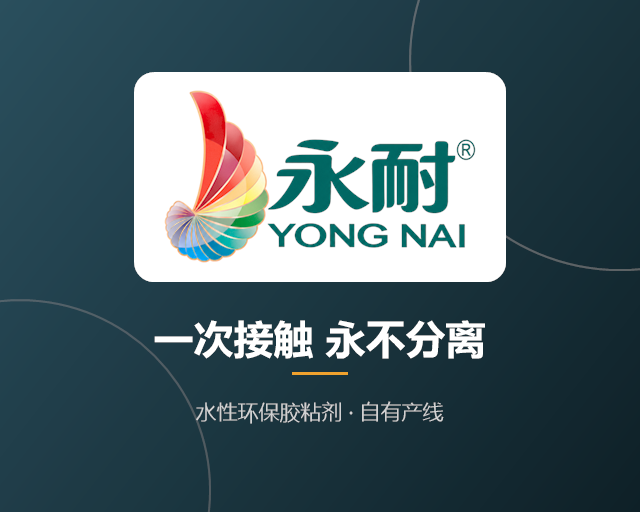
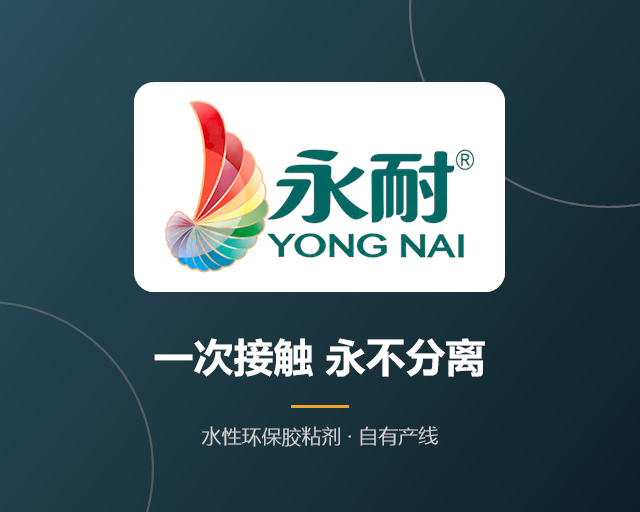
fix(share): 朋友圈改用 1:1 封面；showShareMenu 的 menus 默认值坑加注释与 fail 兜底

diff --git a/miniprogram/utils/util.ts b/miniprogram/utils/util.ts
@@ -62,11 +62,20 @@ export const previewImages = (urls: string[], current?: string) => {
 /** 校验中国大陆手机号 */
 export const isPhone = (value: string) => /^1[3-9]\d{9}$/.test(value)
 
-/** 打开右上角菜单里的「转发给好友」与「分享到朋友圈」 */
+/**
+ * 打开右上角菜单里的「转发给好友」与「分享到朋友圈」。
+ *
+ * 坑一：menus 的默认值是 ['shareAppMessage']，不显式传 shareTimeline 的话
+ *      朋友圈入口不会出现——只定义 onShareTimeline 回调并不够。
+ * 坑二：基础库 < 2.11.3 不支持 menus 参数，调用会失败；失败时保持平台默认即可。
+ */
 export const enableShare = () => {
   wx.showShareMenu({
     withShareTicket: true,
     menus: ['shareAppMessage', 'shareTimeline'],
+    fail: () => {
+      // 低版本基础库不支持 menus，忽略即可
+    },
   } as WechatMiniprogram.ShowShareMenuOption)
 }
 

diff --git a/miniprogram/pages/detail/detail.ts b/miniprogram/pages/detail/detail.ts
@@ -1,5 +1,5 @@
 import { findProduct, PRODUCTS, Product } from '../../data/products'
-import { SHARE_COVER } from '../../config'
+import { SHARE_COVER, SHARE_TIMELINE_COVER } from '../../config'
 import { callPhone, enableShare, goTab } from '../../utils/util'
 
 const PHONE = '13723757790'
@@ -108,7 +108,7 @@ Page({
     return {
       title: product ? `永耐 ${product.model} ${product.name}｜${product.usage}` : '永耐胶水',
       query: `model=${product ? product.model : ''}`,
-      imageUrl: SHARE_COVER,
+      imageUrl: SHARE_TIMELINE_COVER,
     }
   },
 })

diff --git a/miniprogram/pages/sample/sample.ts b/miniprogram/pages/sample/sample.ts
@@ -1,4 +1,4 @@
-import { API_BASE, HAS_BACKEND, SAMPLE_PATH, SHARE_COVER } from '../../config'
+import { API_BASE, HAS_BACKEND, SAMPLE_PATH, SHARE_COVER, SHARE_TIMELINE_COVER } from '../../config'
 import { findProduct } from '../../data/products'
 import { callPhone, enableShare, goTab, isPhone, toast } from '../../utils/util'
 
@@ -183,7 +183,7 @@ Page({
     return {
       title: '永耐胶水 · 寄样与试胶不收费，样块确认后再谈批量',
       query: '',
-      imageUrl: SHARE_COVER,
+      imageUrl: SHARE_TIMELINE_COVER,
     }
   },
 })

diff --git a/miniprogram/pages/home/home.ts b/miniprogram/pages/home/home.ts
@@ -6,7 +6,7 @@ import {
   SAMPLE_STEPS,
   STATS,
 } from '../../data/company'
-import { SHARE_COVER } from '../../config'
+import { SHARE_COVER, SHARE_TIMELINE_COVER } from '../../config'
 import { callPhone, enableShare, goTab } from '../../utils/util'
 
 const FEATURED = ['SL-113', 'SL-101', 'SL-286', 'SL-128']
@@ -129,7 +129,7 @@ Page({
     return {
       title: '永耐胶水 · 水性环保胶粘剂，九大系列 17 个在售型号',
       query: '',
-      imageUrl: SHARE_COVER,
+      imageUrl: SHARE_TIMELINE_COVER,
     }
   },
 })

diff --git a/miniprogram/pages/about/about.ts b/miniprogram/pages/about/about.ts
@@ -15,7 +15,7 @@ import {
   STATS,
   VOC_POINTS,
 } from '../../data/company'
-import { SHARE_COVER } from '../../config'
+import { SHARE_COVER, SHARE_TIMELINE_COVER } from '../../config'
 import { enableShare, goTab, previewImages } from '../../utils/util'
 
 Page({
@@ -84,7 +84,7 @@ Page({
     return {
       title: '永耐胶水 · 4,000 ㎡ 自有厂房，年产一万余吨，七项发明专利',
       query: '',
-      imageUrl: SHARE_COVER,
+      imageUrl: SHARE_TIMELINE_COVER,
     }
   },
 })

diff --git a/miniprogram/pages/products/products.ts b/miniprogram/pages/products/products.ts
@@ -1,5 +1,5 @@
 import { PRODUCTS, SERIES, Product } from '../../data/products'
-import { SHARE_COVER } from '../../config'
+import { SHARE_COVER, SHARE_TIMELINE_COVER } from '../../config'
 import { enableShare, goTab } from '../../utils/util'
 
 interface Chip {
@@ -131,7 +131,7 @@ Page({
     return {
       title: '永耐胶水 · 九大系列 17 个在售型号，按木种与工序选型',
       query: '',
-      imageUrl: SHARE_COVER,
+      imageUrl: SHARE_TIMELINE_COVER,
     }
   },
 })

diff --git a/miniprogram/pages/contact/contact.ts b/miniprogram/pages/contact/contact.ts
@@ -1,5 +1,5 @@
 import { BRAND, CONTACT, QUOTE_NOTE } from '../../data/company'
-import { SHARE_COVER } from '../../config'
+import { SHARE_COVER, SHARE_TIMELINE_COVER } from '../../config'
 import { callPhone, copyText, enableShare, toast } from '../../utils/util'
 
 Page({
@@ -90,7 +90,7 @@ Page({
     return {
       title: '永耐胶水 · 电话 / 微信 137 2375 7790，东莞大岭山',
       query: '',
-      imageUrl: SHARE_COVER,
+      imageUrl: SHARE_TIMELINE_COVER,
     }
   },
 })

diff --git a/miniprogram/config.ts b/miniprogram/config.ts
@@ -12,5 +12,8 @@ export const SAMPLE_PATH = '/api/sample'
 /** 是否已配置后台 */
 export const HAS_BACKEND = API_BASE.length > 0
 
-/** 转发 / 朋友圈统一使用的 5:4 分享封面 */
+/** 转发给好友的分享封面：微信卡片按 5:4 展示 */
 export const SHARE_COVER = '/assets/share/share-cover.png'
+
+/** 分享到朋友圈的封面：朋友圈按 1:1 展示，用 5:4 会被裁掉上下 */
+export const SHARE_TIMELINE_COVER = '/assets/share/share-timeline.png'

diff --git a/miniprogram/pages/selector/selector.ts b/miniprogram/pages/selector/selector.ts
@@ -8,7 +8,7 @@ import {
   Scenario,
   findProduct,
 } from '../../data/products'
-import { SHARE_COVER } from '../../config'
+import { SHARE_COVER, SHARE_TIMELINE_COVER } from '../../config'
 import { enableShare } from '../../utils/util'
 
 Page({
@@ -109,7 +109,7 @@ Page({
     return {
       title: '永耐选胶助手 · 三步选到合适的水性胶型号',
       query: '',
-      imageUrl: SHARE_COVER,
+      imageUrl: SHARE_TIMELINE_COVER,
     }
   },
 })
